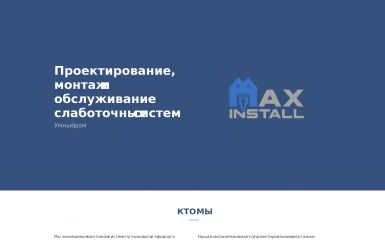
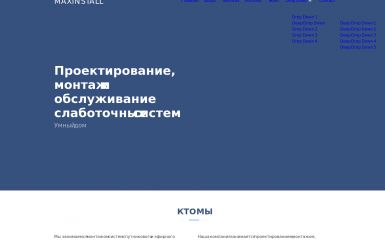
update

diff --git a/index.html b/index.html
@@ -27,9 +27,9 @@
   ======================================================== -->
     
     
-<link rel="stylesheet" href="css/custom_elements.css?wF5TftDl" id="custom-elements-css"><link rel="stylesheet" href="css/code_editor_styles.css?LSUzrTl5" id="custom-css"></head>
+<link rel="stylesheet" href="css/custom_elements.css?VLv9AOgg" id="custom-elements-css"><link rel="stylesheet" href="css/code_editor_styles.css?B3KAUQ3P" id="custom-css"></head>
 
-<body data-aos-easing="ease" data-aos-duration="1000" data-aos-delay="0"><button type="button" class="mobile-nav-toggle d-lg-none"><i class="icofont-navigation-menu"></i></button><button type="button" class="mobile-nav-toggle d-lg-none"><i class="icofont-navigation-menu"></i></button>
+<body data-aos-easing="ease" data-aos-duration="1000" data-aos-delay="0"><button type="button" class="mobile-nav-toggle d-lg-none"><i class="icofont-navigation-menu"></i></button><button type="button" class="mobile-nav-toggle d-lg-none"><i class="icofont-navigation-menu"></i></button><button type="button" class="mobile-nav-toggle d-lg-none"><i class="icofont-navigation-menu"></i></button>
     <!-- ======= Header ======= -->
     <header id="header" class="fixed-top header-scrolled">
         <div class="container d-flex align-items-center">
@@ -38,8 +38,8 @@
             <!-- <a href="index.html" class="logo mr-auto"><img src="assets/img/logo.png" alt="" class="img-fluid"></a>-->
             <nav class="nav-menu d-none d-lg-block">
                 <ul>
-                    <li class="active"><a href="index.html">Главная</a></li>
-                    <li><a href="#about">About</a></li>
+                    <li class=""><a href="index.html">Главная</a></li>
+                    <li class="active"><a href="#about">About</a></li>
                     <li><a href="#services">Services</a></li>
                     <li><a href="#portfolio">Portfolio</a></li>
                     <li><a href="#team">Team</a></li>
@@ -60,7 +60,7 @@
                             <li><a href="#">Drop Down 4</a></li>
                         </ul>
                     </li>
-                    <li class="active"><a href="#contact">Contact</a></li>
+                    <li class=""><a href="#contact">Contact</a></li>
                 </ul>
             </nav><!-- .nav-menu -->
         </div>
@@ -688,7 +688,33 @@
     <script src="assets/vendor/owl.carousel/owl.carousel.min.js"></script>
     <script src="assets/vendor/aos/aos.js"></script>
     <!-- Template Main JS File -->
-    <script src="assets/js/main.js"></script>
+    <script src="assets/js/main.js"></script><nav class="mobile-nav d-lg-none">
+                <ul>
+                    <li class="active"><a href="index.html">Главная</a></li>
+                    <li><a href="#about">About</a></li>
+                    <li><a href="#services">Services</a></li>
+                    <li><a href="#portfolio">Portfolio</a></li>
+                    <li><a href="#team">Team</a></li>
+                    <li class="drop-down"><a href="">Drop Down</a>
+                        <ul>
+                            <li><a href="#">Drop Down 1</a></li>
+                            <li class="drop-down"><a href="#">Deep Drop Down</a>
+                                <ul>
+                                    <li><a href="#">Deep Drop Down 1</a></li>
+                                    <li><a href="#">Deep Drop Down 2</a></li>
+                                    <li><a href="#">Deep Drop Down 3</a></li>
+                                    <li><a href="#">Deep Drop Down 4</a></li>
+                                    <li><a href="#">Deep Drop Down 5</a></li>
+                                </ul>
+                            </li>
+                            <li><a href="#">Drop Down 2</a></li>
+                            <li><a href="#">Drop Down 3</a></li>
+                            <li><a href="#">Drop Down 4</a></li>
+                        </ul>
+                    </li>
+                    <li class="active"><a href="#contact">Contact</a></li>
+                </ul>
+            </nav><div class="mobile-nav-overly"></div>
     <nav class="mobile-nav d-lg-none">
         <ul>
             <li class=""><a href="index.html">Главная</a></li>
@@ -747,4 +773,4 @@
     
 
 
-<div id="preloader"></div><script id="custom-js" src="js/code_editor_scripts.js?7gxqRboV"></script></body></html>
+<div id="preloader"></div><script id="custom-js" src="js/code_editor_scripts.js?acEEoTF9"></script></body></html>

diff --git a/inner-page.html b/inner-page.html
@@ -31,7 +31,7 @@
   * Author: BootstrapMade.com
   * License: https://bootstrapmade.com/license/
   ======================================================== -->
-<link rel="stylesheet" href="css/custom_elements.css?Y837ZNNi" id="custom-elements-css"><link rel="stylesheet" href="css/code_editor_styles.css?F9tYEt00" id="custom-css"></head>
+<link rel="stylesheet" href="css/custom_elements.css?MweJ8pCB" id="custom-elements-css"><link rel="stylesheet" href="css/code_editor_styles.css?HtSXAJSJ" id="custom-css"></head>
 
 <body>
 
@@ -205,4 +205,4 @@
 
 
 
-<script id="custom-js" src="js/code_editor_scripts.js?FmjWiVtl"></script></body></html>
+<script id="custom-js" src="js/code_editor_scripts.js?0Mmu8Oac"></script></body></html>

diff --git a/portfolio-details.html b/portfolio-details.html
@@ -31,7 +31,7 @@
   * Author: BootstrapMade.com
   * License: https://bootstrapmade.com/license/
   ======================================================== -->
-<link rel="stylesheet" href="css/custom_elements.css?Y2E74l9z" id="custom-elements-css"><link rel="stylesheet" href="css/code_editor_styles.css?RSeRveIm" id="custom-css"></head>
+<link rel="stylesheet" href="css/custom_elements.css?sBNpK2Kz" id="custom-elements-css"><link rel="stylesheet" href="css/code_editor_styles.css?AehmESvO" id="custom-css"></head>
 
 <body>
 
@@ -231,4 +231,4 @@
 
 
 
-<script id="custom-js" src="js/code_editor_scripts.js?ir9Yqeac"></script></body></html>
+<script id="custom-js" src="js/code_editor_scripts.js?OwIOz5Qv"></script></body></html>
